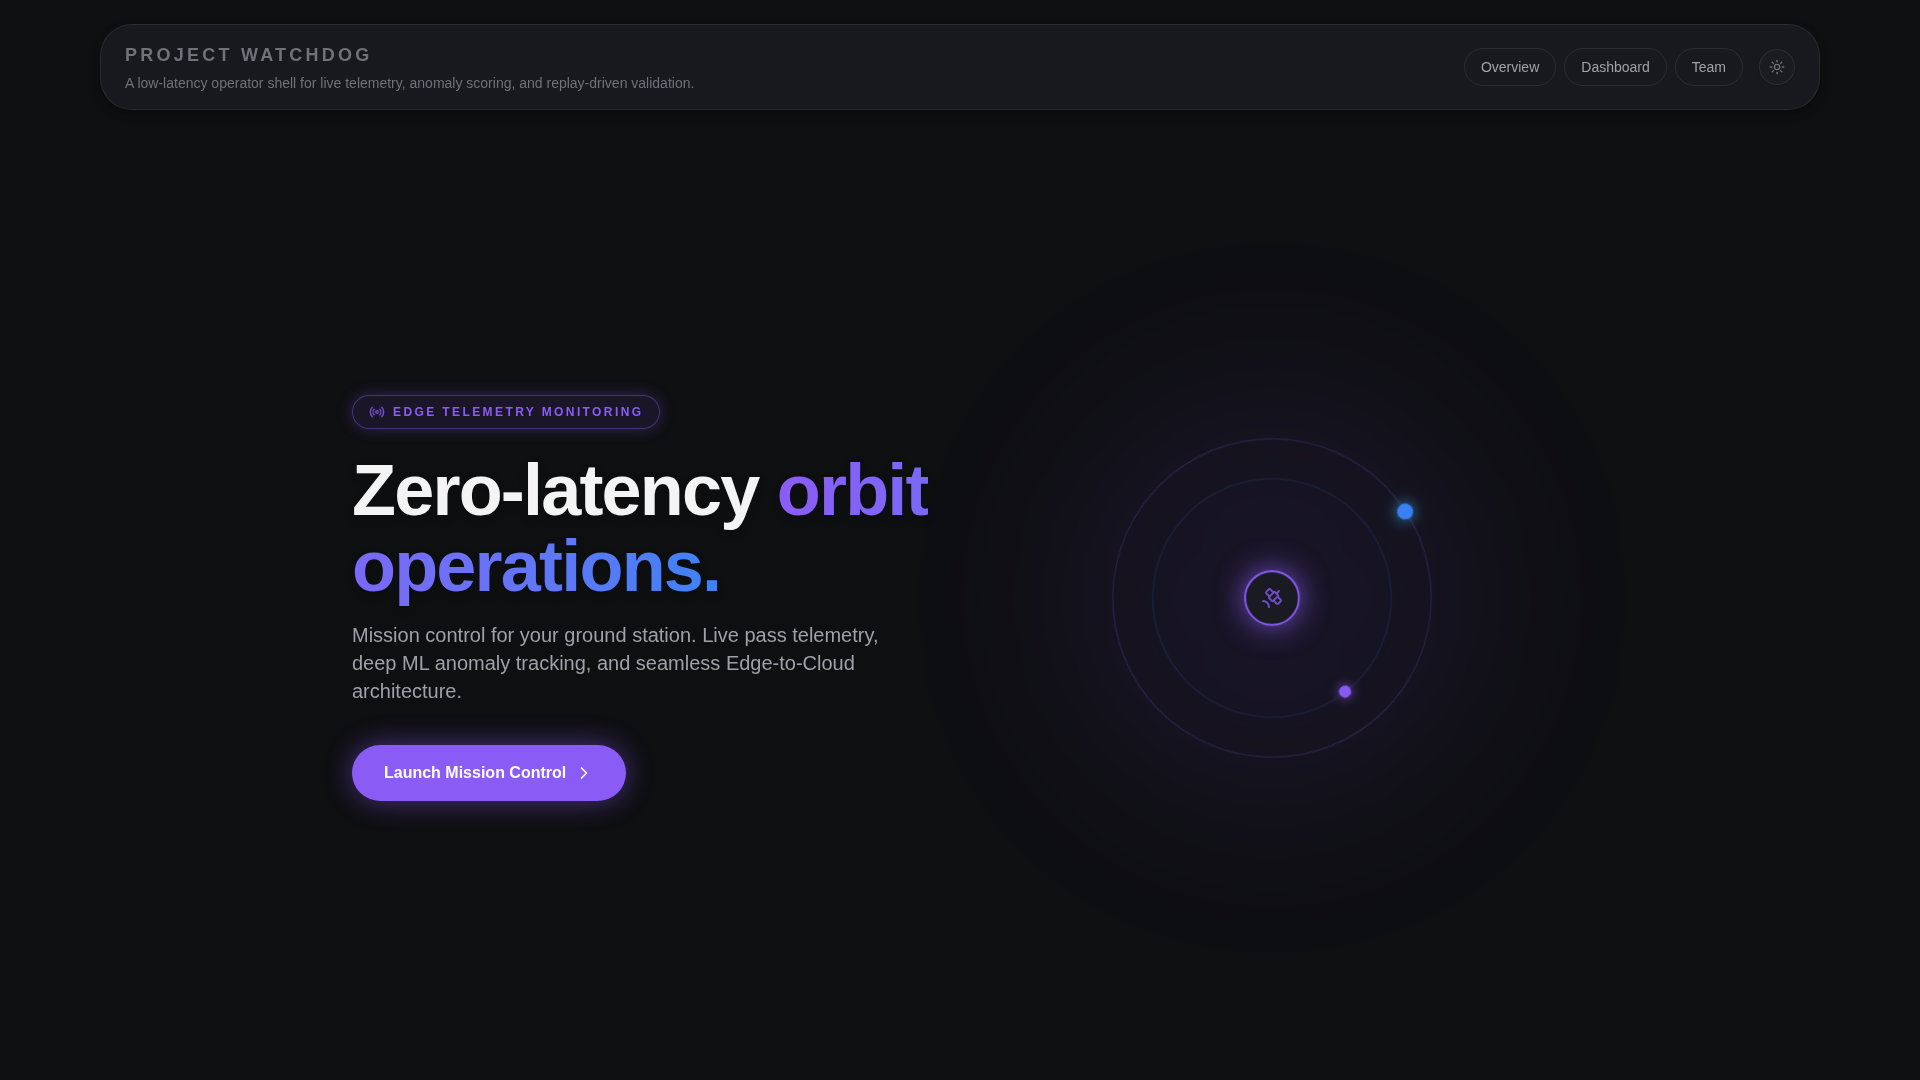
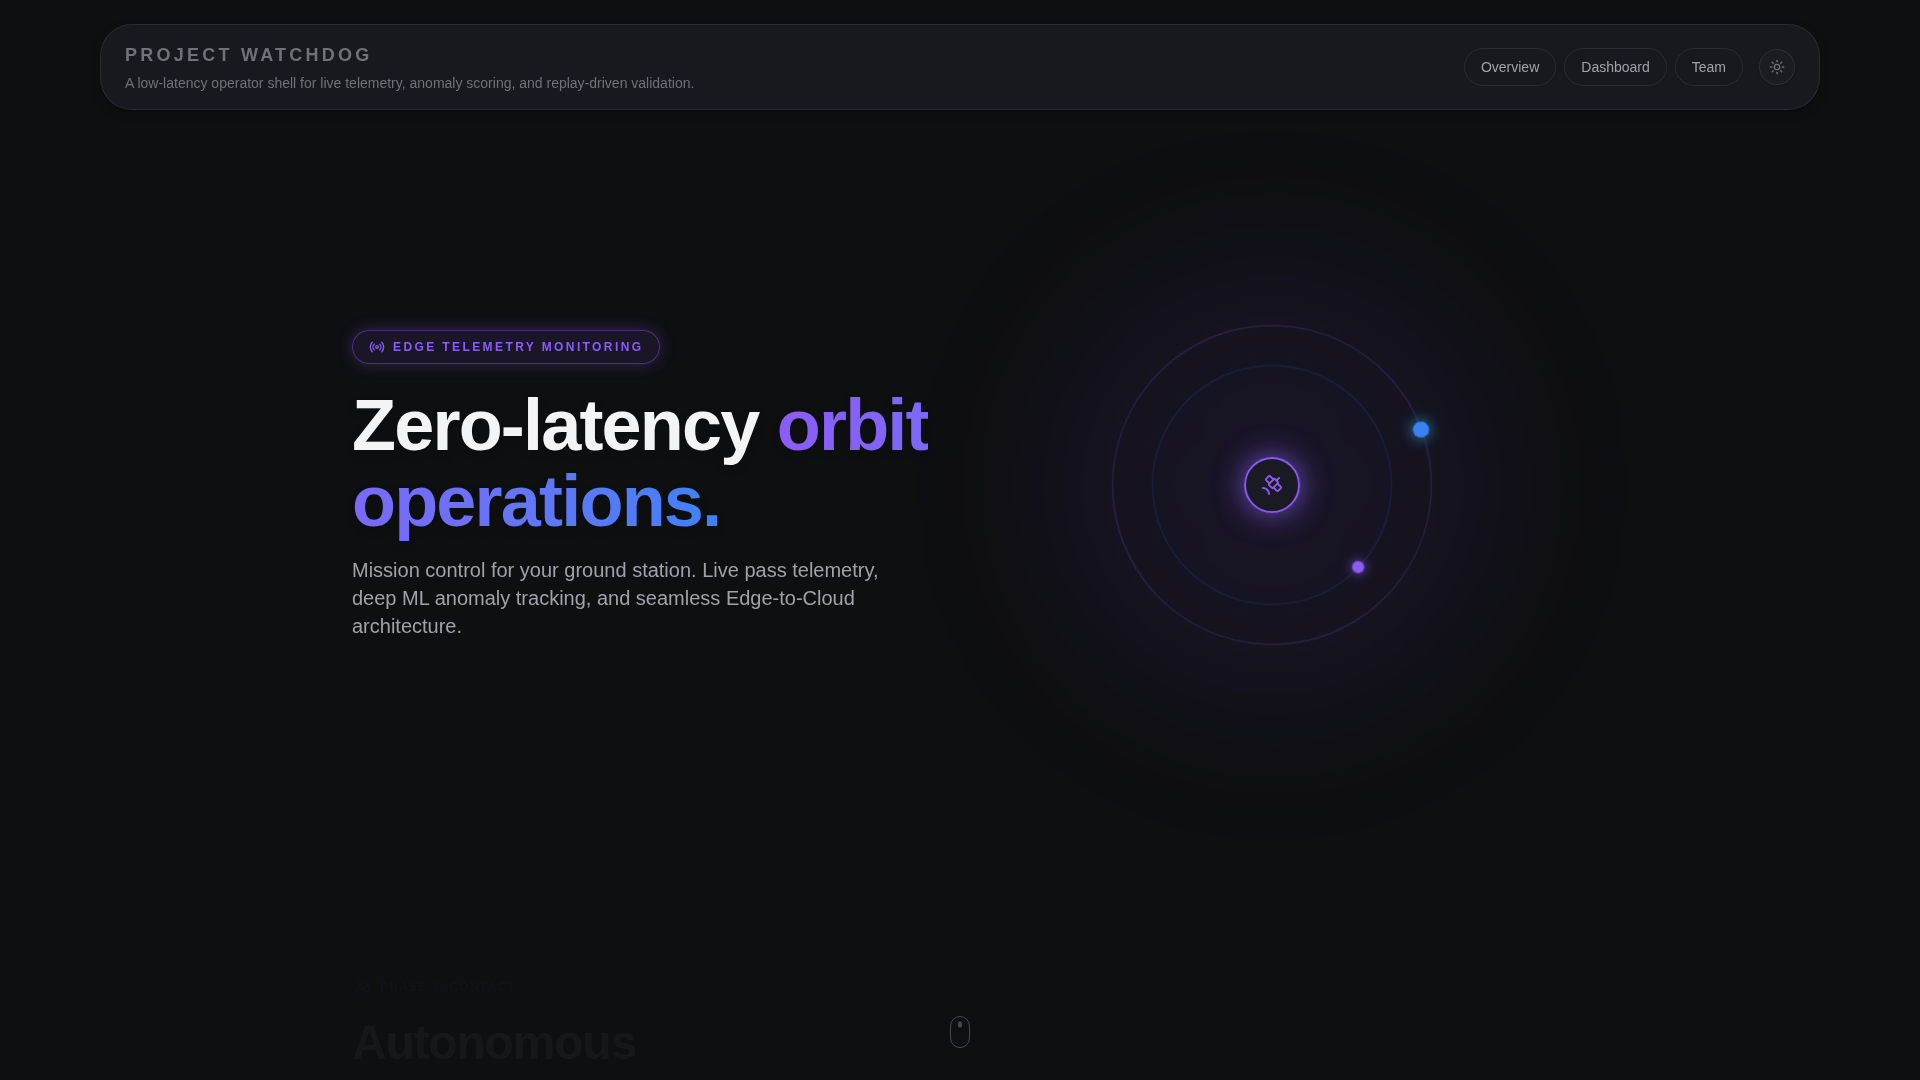
Scroll indicator
Change ID: szzyqyon
This commit contains the following changes:
    M .screenshots/landing_cta.png
    M .screenshots/landing_telemetry.png
    M .screenshots/landing_top.png
    A frontend/src/lib/components/ScrollIndicator.svelte
    M frontend/src/routes/(landing)/+layout.svelte
    M frontend/src/routes/(landing)/+page.svelte

diff --git a/frontend/src/lib/components/ScrollIndicator.svelte b/frontend/src/lib/components/ScrollIndicator.svelte
@@ -1,0 +1,59 @@
+<script lang="ts">
+  import { fade } from "svelte/transition";
+  import gsap from "gsap";
+  import { ScrollToPlugin } from "gsap/dist/ScrollToPlugin";
+
+  let scrollY = $state(0);
+  let isBottom = $state(false);
+
+  $effect(() => {
+    gsap.registerPlugin(ScrollToPlugin);
+    
+    const checkBottom = () => {
+      isBottom = window.scrollY + window.innerHeight >= document.documentElement.scrollHeight - 50;
+    };
+    window.addEventListener('scroll', checkBottom);
+    window.addEventListener('resize', checkBottom);
+    checkBottom();
+    return () => {
+      window.removeEventListener('scroll', checkBottom);
+      window.removeEventListener('resize', checkBottom);
+    };
+  });
+
+  function scrollDown() {
+    const targets = Array.from(document.querySelectorAll('.story-step, section:not(#story, #hero)'));
+    let targetY = window.scrollY + window.innerHeight;
+    
+    for (const target of targets) {
+      const rect = target.getBoundingClientRect();
+      // If the top of the target is below the current viewport top (with a 10px buffer)
+      if (rect.top > 10) {
+        targetY = window.scrollY + rect.top;
+        break;
+      }
+    }
+
+    gsap.to(window, { 
+      duration: 1.0, 
+      scrollTo: targetY, 
+      ease: "power2.inOut" 
+    });
+  }
+</script>
+
+<svelte:window bind:scrollY={scrollY} />
+
+{#if !isBottom}
+  <button 
+    onclick={scrollDown}
+    transition:fade={{ duration: 300 }}
+    class="fixed bottom-8 left-1/2 -translate-x-1/2 z-50 flex flex-col items-center opacity-60 hover:opacity-100 transition-opacity cursor-pointer group"
+    aria-label="Scroll down"
+  >
+    <!-- Minimalist mouse silhouette -->
+    <div class="w-5 h-8 rounded-full border border-ink-3 group-hover:border-brand transition-colors flex justify-center pt-1.5 shadow-sm backdrop-blur-sm bg-surface/30">
+      <div class="w-1 h-1.5 bg-ink-3 group-hover:bg-brand rounded-full animate-[bounce_2s_infinite] transition-colors"></div>
+    </div>
+  </button>
+{/if}

diff --git a/frontend/src/routes/(landing)/+page.svelte b/frontend/src/routes/(landing)/+page.svelte
@@ -1,7 +1,7 @@
 <script lang="ts">
   import { gsapAction } from "$lib/actions/gsap";
   import gsap from "gsap";
-  import { Activity, Radio, ChevronRight, BrainCircuit, ShieldAlert, Satellite, Zap } from "lucide-svelte";
+  import { Activity, Radio, ChevronRight, BrainCircuit, ShieldAlert, Satellite, Zap, Mouse, ChevronDown, Sparkles } from "lucide-svelte";
   
   import GroundStationMap from "$lib/components/operations/GroundStationMap.svelte";
   import AnomalyTimelinePlot from "$lib/components/charts/AnomalyTimelinePlot.svelte";
@@ -90,7 +90,7 @@
             trigger: step,
             start: "top 85%", // Starts a bit lower to give room
             end: "bottom 15%", // Escapes a bit higher
-            scrub: true
+            scrub: 1.5
           }
         });
 
@@ -135,8 +135,8 @@
 <div class="relative z-10 w-full">
   
   <!-- 1. HERO SECTION -->
-  <section class="mx-auto max-w-7xl px-4 lg:px-8">
-    <div use:gsapAction={{ animation: heroAnim }} class="grid min-h-[80vh] grid-cols-1 lg:grid-cols-2 items-center gap-8 pt-8">
+  <section id="hero" class="mx-auto max-w-7xl px-4 lg:px-8">
+    <div use:gsapAction={{ animation: heroAnim }} class="grid min-h-[65vh] grid-cols-1 lg:grid-cols-2 items-center gap-8 pt-4 pb-12">
       
       <!-- Hero Text (Left) -->
       <div class="space-y-6 text-center lg:text-left z-20">
@@ -151,12 +151,6 @@
           <p class="hero-desc invisible text-lg leading-7 text-ink-2 md:text-xl font-medium max-w-xl mx-auto lg:mx-0">
             Mission control for your ground station. Live pass telemetry, deep ML anomaly tracking, and seamless Edge-to-Cloud architecture.
           </p>
-        </div>
-        <div class="hero-buttons invisible flex flex-wrap items-center justify-center gap-4 lg:justify-start pt-4">
-          <a class="group flex items-center gap-2 rounded-full bg-brand px-8 py-4 text-base font-bold text-white shadow-[0_0_30px_rgba(139,92,246,0.5)] transition-all hover:scale-105 hover:bg-brand/90 hover:shadow-[0_0_40px_rgba(139,92,246,0.7)]" href="/dashboard">
-            Launch Mission Control
-            <ChevronRight class="size-5 transition-transform group-hover:translate-x-1" />
-          </a>
         </div>
       </div>
 
@@ -184,7 +178,7 @@
   </section>
 
   <!-- 2. STICKY STORY SECTION -->
-  <section use:gsapAction={{ animation: stickyStoryAnim }} class="mx-auto max-w-7xl px-4 lg:px-8 relative mt-12 mb-12">
+  <section id="story" use:gsapAction={{ animation: stickyStoryAnim }} class="mx-auto max-w-7xl px-4 lg:px-8 relative mt-12 mb-12">
     <div class="grid grid-cols-1 lg:grid-cols-2 gap-8 relative">
       
       <!-- LEFT COLUMN: The Scrolling Text Steps -->
@@ -313,7 +307,9 @@
 
   <!-- 3. CTA SECTION (Edge to Edge Glass Parallax) -->
   <section class="relative w-full min-h-screen flex items-center justify-center overflow-hidden bg-surface/10 mt-20 border-t border-border backdrop-blur-md">
-    
+    <!-- Subtle laser line at the top -->
+    <div class="absolute top-0 left-0 w-full h-[1px] bg-gradient-to-r from-transparent via-brand/40 to-transparent"></div>
+
     <!-- Colorful floating stained glass blobs -->
     <div class="absolute inset-0 z-0 overflow-hidden pointer-events-none">
       <div class="absolute top-1/4 left-1/4 w-[40vw] aspect-square rounded-full bg-brand/15 blur-[120px]"></div>
@@ -323,12 +319,13 @@
 
     <!-- Content centered -->
     <div class="relative z-10 flex flex-col items-center justify-center space-y-8 text-center px-4 w-full max-w-4xl">
-      <div class="size-20 rounded-full bg-brand/10 border border-brand/20 flex items-center justify-center shadow-[0_0_40px_rgba(139,92,246,0.3)] mb-4">
+      <div class="size-20 rounded-full bg-brand/10 border border-brand/20 flex items-center justify-center shadow-[0_0_40px_rgba(139,92,246,0.3)] mb-4 relative">
+         <div class="absolute inset-0 rounded-full border border-brand/30 animate-[ping_3s_cubic-bezier(0,0,0.2,1)_infinite]"></div>
          <Radio class="size-10 text-brand animate-pulse" />
       </div>
       
-      <h2 class="text-5xl lg:text-7xl font-black text-ink drop-shadow-md">
-        Ready for <span class="text-transparent bg-clip-text bg-gradient-to-r from-brand to-info">Launch.</span>
+      <h2 class="text-5xl lg:text-7xl font-black text-ink drop-shadow-md flex items-center justify-center gap-4">
+        Ready for <span class="text-transparent bg-clip-text bg-gradient-to-r from-brand to-info">Launch.</span> <Sparkles class="size-10 text-brand hidden sm:block" />
       </h2>
       
       <p class="text-xl text-ink-3 max-w-2xl font-medium leading-relaxed">
@@ -337,13 +334,13 @@
       
       <!-- Feature Mini-List -->
       <div class="flex flex-wrap justify-center gap-4 py-6">
-        <div class="flex items-center gap-2 text-sm font-semibold text-ink-2 bg-panel/80 px-5 py-2.5 rounded-full border border-border backdrop-blur-md shadow-sm">
+        <div class="flex items-center gap-2 text-sm font-semibold text-ink-2 bg-panel/80 px-5 py-2.5 rounded-full border border-border backdrop-blur-md shadow-sm transition-transform hover:-translate-y-1 cursor-default">
            <Zap class="size-4 text-ok" /> Live WebSockets
         </div>
-        <div class="flex items-center gap-2 text-sm font-semibold text-ink-2 bg-panel/80 px-5 py-2.5 rounded-full border border-border backdrop-blur-md shadow-sm">
+        <div class="flex items-center gap-2 text-sm font-semibold text-ink-2 bg-panel/80 px-5 py-2.5 rounded-full border border-border backdrop-blur-md shadow-sm transition-transform hover:-translate-y-1 cursor-default">
            <BrainCircuit class="size-4 text-brand" /> VAE ML Models
         </div>
-        <div class="flex items-center gap-2 text-sm font-semibold text-ink-2 bg-panel/80 px-5 py-2.5 rounded-full border border-border backdrop-blur-md shadow-sm">
+        <div class="flex items-center gap-2 text-sm font-semibold text-ink-2 bg-panel/80 px-5 py-2.5 rounded-full border border-border backdrop-blur-md shadow-sm transition-transform hover:-translate-y-1 cursor-default">
            <ShieldAlert class="size-4 text-critical" /> Auto-Alerts
         </div>
       </div>

diff --git a/frontend/src/routes/(landing)/+layout.svelte b/frontend/src/routes/(landing)/+layout.svelte
@@ -1,6 +1,7 @@
 <script lang="ts">
   import { page } from "$app/stores";
   import AntennaBackground from "$lib/components/AntennaBackground.svelte";
+  import ScrollIndicator from "$lib/components/ScrollIndicator.svelte";
   import { themeState, toggleTheme } from "$lib/theme.svelte";
   import { Sun, Moon } from "lucide-svelte";
 
@@ -35,6 +36,8 @@
   signalFadeScale={antennaSignalFadeScale}
   antennaFadeScale={antennaBaseFadeScale}
 />
+
+<ScrollIndicator />
 
 <div class="min-h-screen">
   <div class="flex min-h-screen w-full flex-col">